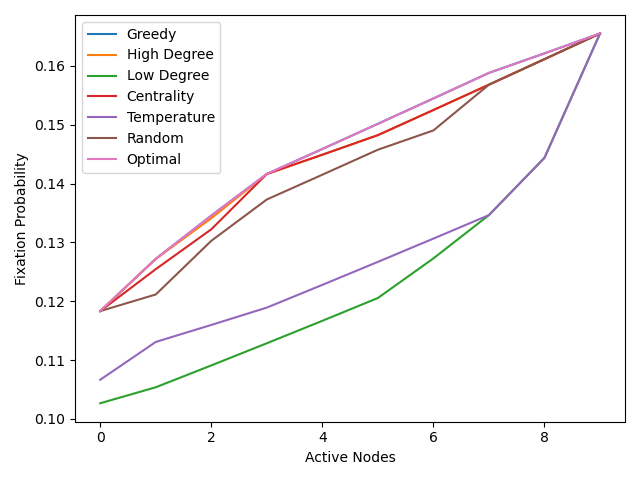
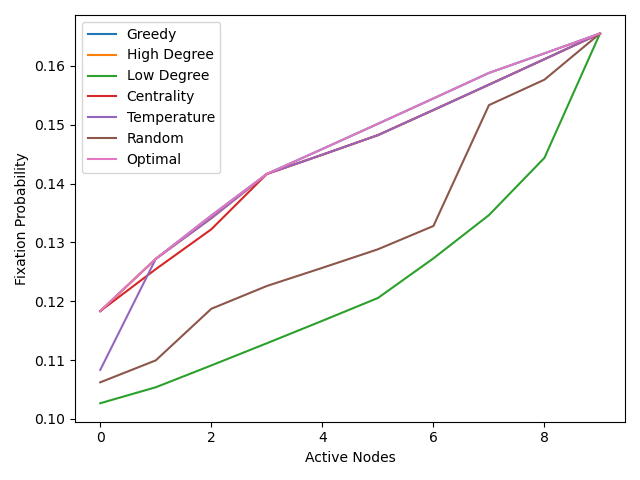
Have introduced a max_iteration to simulate for when we don't know the numeric fixation probability and don't want to run for 20000 iterations (convergence often happens earlier)

diff --git a/Experimentation.py b/Experimentation.py
@@ -93,6 +93,7 @@ def make_one_passive(graph):
 
         numeric_fixation_prob = numeric_fixation_probability(G, fitness)
         numeric_data.append(numeric_fixation_prob)
+
         G.nodes[i]['active'] = True
 
     #Degree Heuristics
@@ -111,7 +112,7 @@ def make_one_passive(graph):
     plot_centrality(centrality_list,numeric_data)
 
 
-def compare_active_node_strategies(G,fitness):
+def compare_active_node_strategies_numeric(G,fitness):
     nodes_list = list(range(len(G)))
     greedy_fixation_probabilities = []
     high_fixation_probabilities = []
@@ -123,8 +124,6 @@ def compare_active_node_strategies(G,fitness):
 
     k_nodes = len(G)
     #The strategies
-
-    print("Number of Active nodes to choose ", k_nodes)
 
     #Greedy
     greedy_chooser = Active_Node_Chooser(k_nodes,G,fitness,Greedy())
@@ -215,6 +214,120 @@ def compare_active_node_strategies(G,fitness):
     pass
 
 
+def compare_active_node_strategies_simulation(G, fitness, eps):
+    """
+    We don't know the numeric fixation prob for large graphs so we just set it to zero and force the simulation to run 20000 iterations
+    We hope to see a converge anyway. We are just explicit in knowing the value it converges towards
+    :param G: The graph
+    :param fitness: Fitness
+    :param eps: Epilon
+    :return:
+    """
+    nodes_list = list(range(len(G)))
+    greedy_fixation_probabilities = []
+    high_fixation_probabilities = []
+    low_fixation_probabilities = []
+    centrality_fixation_probabilities = []
+    temperature_fixation_probabilities = []
+    random_fixation_probabilities = []
+
+    max_iterations=5000
+
+    k_nodes = len(G)
+    #The strategies
+
+    #Greedy
+    greedy_chooser = Active_Node_Chooser(k_nodes,G,fitness,Greedy())
+    greedy_nodes = greedy_chooser.choose_nodes()
+    print("Greedy nodes to activate list", greedy_nodes)
+    graph = G.copy()
+    for j in greedy_nodes:
+        graph.nodes[j]['active'] = True
+
+        iteration_list, fixation_list, simulated_fixation_prob = simulate(3000,graph,fitness,0,eps,max_iterations)
+        greedy_fixation_probabilities.append(simulated_fixation_prob)
+        print("Simulated fixation probability for Greedy = ", simulated_fixation_prob)
+        plot_fixation_iteration(iteration_list, fixation_list, 0)
+
+    #High Degree
+    high_degree_chooser = Active_Node_Chooser(k_nodes,G,fitness,High_node_degree())
+    high_degree_nodes = high_degree_chooser.choose_nodes()
+    print("High Degree nodes to activate list", high_degree_nodes)
+    graph = G.copy()
+    for j in high_degree_nodes:
+        graph.nodes[j]['active'] = True
+
+        iteration_list, fixation_list, simulated_fixation_prob = simulate(3000,graph,fitness,0,eps,max_iterations)
+        greedy_fixation_probabilities.append(simulated_fixation_prob)
+        print("Simulated fixation probability for High Degree = ", simulated_fixation_prob)
+        plot_fixation_iteration(iteration_list, fixation_list, 0)
+
+    #Low Degree
+    low_degree_chooser = Active_Node_Chooser(k_nodes,G,fitness,Low_node_degree())
+    low_degree_nodes = low_degree_chooser.choose_nodes()
+    print("Low Degree nodes to activate list", low_degree_nodes)
+    graph = G.copy()
+    for j in low_degree_nodes:
+        graph.nodes[j]['active'] = True
+
+        iteration_list, fixation_list, simulated_fixation_prob = simulate(3000,graph,fitness,0,eps,max_iterations)
+        greedy_fixation_probabilities.append(simulated_fixation_prob)
+        print("Simulated fixation probability for Low Degree = ", simulated_fixation_prob)
+        plot_fixation_iteration(iteration_list, fixation_list, 0)
+
+    #Centrality
+    centrality_chooser = Active_Node_Chooser(k_nodes,G,fitness,Centrality())
+    centrality_nodes = centrality_chooser.choose_nodes()
+    print("Centrality nodes to activate list", centrality_nodes)
+    graph = G.copy()
+    for j in centrality_nodes:
+        graph.nodes[j]['active'] = True
+
+        iteration_list, fixation_list, simulated_fixation_prob = simulate(3000,graph,fitness,0,eps,max_iterations)
+        greedy_fixation_probabilities.append(simulated_fixation_prob)
+        print("Simulated fixation probability for Centrality = ", simulated_fixation_prob)
+        plot_fixation_iteration(iteration_list, fixation_list, 0)
+
+    #Temperature
+    temperature_chooser = Active_Node_Chooser(k_nodes,G,fitness,Temperature())
+    temperature_nodes = temperature_chooser.choose_nodes()
+    print("Temperature nodes to activate list", temperature_nodes)
+    graph = G.copy()
+    for j in temperature_nodes:
+        graph.nodes[j]['active'] = True
+
+        iteration_list, fixation_list, simulated_fixation_prob = simulate(3000,graph,fitness,0,eps,max_iterations)
+        greedy_fixation_probabilities.append(simulated_fixation_prob)
+        print("Simulated fixation probability for Temperature = ", simulated_fixation_prob)
+        plot_fixation_iteration(iteration_list, fixation_list, 0)
+
+    #Random
+    random_chooser = Active_Node_Chooser(k_nodes,G,fitness,Random())
+    random_nodes = random_chooser.choose_nodes()
+    print("Random nodes to activate list", random_nodes)
+    graph = G.copy()
+    for j in random_nodes:
+        graph.nodes[j]['active'] = True
+
+        iteration_list, fixation_list, simulated_fixation_prob = simulate(3000,graph,fitness,0,eps,max_iterations)
+        greedy_fixation_probabilities.append(simulated_fixation_prob)
+        print("Simulated fixation probability for Random = ", simulated_fixation_prob)
+        plot_fixation_iteration(iteration_list, fixation_list, 0)
+
+    plt.plot(nodes_list,greedy_fixation_probabilities, label='Greedy')
+    plt.plot(nodes_list,high_fixation_probabilities, label='High Degree')
+    plt.plot(nodes_list,low_fixation_probabilities, label='Low Degree')
+    plt.plot(nodes_list,centrality_fixation_probabilities, label='Centrality')
+    plt.plot(nodes_list,temperature_fixation_probabilities, label='Temperature')
+    plt.plot(nodes_list,random_fixation_probabilities, label='Random')
+
+    plt.xlabel('Active Nodes')
+    plt.ylabel('Fixation Probability')
+    plt.legend()
+    plt.show()
+    pass
+
+
 if __name__ == "__main__":
     fitness = 0.1
     multiplier = 1
@@ -239,7 +352,19 @@ if __name__ == "__main__":
     Graphs.initialize_nodes_as_resident(G,multiplier)
     Graphs.draw_graph(G)
 
-    make_one_active(G)
-    make_one_passive(G)
-    compare_active_node_strategies(G,fitness)
+    #make_one_active(G)
+    #make_one_passive(G)
+    #compare_active_node_strategies_numeric(G,fitness)
 
+    #Big graph for simulation based comparison between heuristics
+    star1 = Graphs.create_star_graph(2)
+    star2 = Graphs.create_star_graph(2)
+    mega_star = nx.union(star1,star2,rename=('a','b'))
+    mega_star = nx.convert_node_labels_to_integers(mega_star,first_label=0)
+    mega_star.add_edge(1,4)
+    Graphs.initialize_nodes_as_resident(mega_star,multiplier)
+
+    Graphs.initialize_nodes_as_resident(mega_star,multiplier)
+    Graphs.draw_graph(mega_star)
+
+    compare_active_node_strategies_simulation(mega_star,fitness,eps)

diff --git a/Moran_Process.py b/Moran_Process.py
@@ -246,7 +246,7 @@ def rename_nodes(markov):
         counter += 1
 
 
-def simulate(n, G, fitness, numeric_solution,eps = 0.0015):
+def simulate(n, G, fitness, numeric_solution,eps = 0.0015,max_iterations=20000):
     fixation_counter = 0
     fixation_list = list()
     iteration_list = list(range(0, n))
@@ -256,7 +256,7 @@ def simulate(n, G, fitness, numeric_solution,eps = 0.0015):
 
     old_graph = G.copy()
 
-    while (difference > eps or counter < n) and counter < 20000:
+    while (difference > eps or counter < n) and counter < max_iterations:
         G = old_graph.copy()
 
         mutate_a_random_node(G, fitness)
